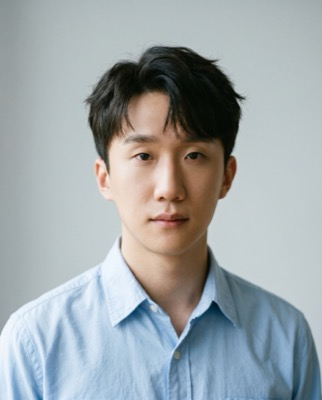
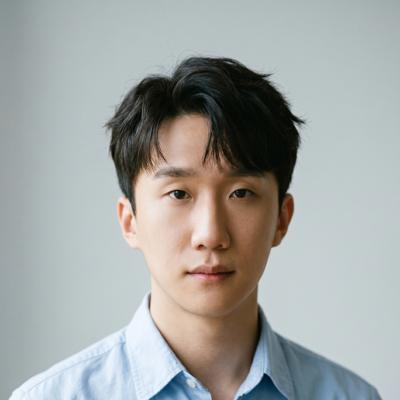
从顶部裁剪照片，显示脸部区域

diff --git a/style.css b/style.css
@@ -100,7 +100,7 @@ section { padding: 4rem 0 3rem; }
     background: linear-gradient(135deg, #e0e7ff, #c7d2fe);
 }
 .profile-img {
-    width: 100%; height: 100%; object-fit: cover; object-position: center 15%;
+    width: 100%; height: 100%; object-fit: cover;
 }
 .profile-name {
     font-size: 2.2rem; font-weight: 800; margin-bottom: 0.5rem;
